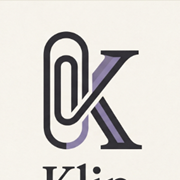
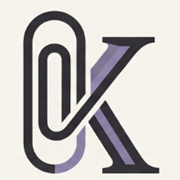
style(mobile): polish mobile UI layout, unified shortener capsule, clean monogram crop, and responsive result card

diff --git a/frontend/src/components/ActiveResultCard.jsx b/frontend/src/components/ActiveResultCard.jsx
@@ -77,30 +77,32 @@ export default function ActiveResultCard({ item }) {
   const displayUrl = item.shortUrl.replace(/^https?:\/\//, '')
 
   return (
-    <section className="max-w-3xl mx-auto px-4 mt-8 mb-16" id="resultCard">
-      <div className="rounded-2xl sm:rounded-3xl bg-white border border-border shadow-[0_10px_35px_-10px_rgba(39,39,42,0.06)] p-5 sm:p-7 flex flex-col md:flex-row items-center justify-between gap-6 transition-transform">
+    <section className="max-w-3xl mx-auto px-4 mt-6 sm:mt-8 mb-12 sm:mb-16" id="resultCard">
+      <div className="rounded-2xl sm:rounded-3xl bg-white border border-border shadow-[0_12px_36px_-10px_rgba(39,39,42,0.08)] p-4 sm:p-6 md:p-7 flex flex-col md:flex-row items-stretch md:items-center justify-between gap-5 sm:gap-6 transition-transform">
         {/* Left Side: Result Details */}
         <div className="flex-1 w-full space-y-4">
           <div className="flex items-center gap-2 flex-wrap">
-            <span className="px-3 py-1 rounded-full bg-accent-tint text-accent text-xs font-mono font-medium tracking-wide">
+            <span className="px-2.5 py-1 rounded-full bg-accent-tint text-accent text-[11px] sm:text-xs font-mono font-medium tracking-wide">
               ACTIVE KLIP
             </span>
-            <span className="text-xs text-muted font-mono">
+            <span className="text-[11px] sm:text-xs text-muted font-mono">
               {item.created_at ? new Date(item.created_at).toLocaleTimeString([], { hour: '2-digit', minute: '2-digit' }) : 'Created just now'}
             </span>
           </div>
 
-          <div>
-            <div className="font-mono text-xs uppercase tracking-wider text-muted mb-1">
+          <div className="space-y-2">
+            <div className="font-mono text-[11px] uppercase tracking-wider text-muted">
               Shortened URL
             </div>
-            <div className="flex items-center gap-2.5 sm:gap-3 flex-wrap">
+
+            {/* Dedicated Link Pill Box: clean responsive flow */}
+            <div className="bg-canvas/70 border border-border/80 rounded-2xl p-3 sm:p-3.5 flex flex-col sm:flex-row sm:items-center justify-between gap-3 transition-colors focus-within:border-accent/40">
               <a
                 id="activeShortLink"
                 href={item.shortUrl}
                 target="_blank"
                 rel="noopener noreferrer"
-                className="font-serif text-2xl sm:text-3xl md:text-4xl text-ink font-normal hover:text-accent transition-colors tracking-tight break-all"
+                className="font-serif text-xl sm:text-2xl md:text-3xl text-ink font-normal hover:text-accent transition-colors tracking-tight break-all select-all leading-snug"
               >
                 {displayUrl}
               </a>
@@ -109,39 +111,39 @@ export default function ActiveResultCard({ item }) {
                 id="copyResultBtn"
                 type="button"
                 onClick={handleCopy}
-                className={`inline-flex items-center gap-1.5 px-3.5 sm:px-4 py-1.5 rounded-full text-xs font-mono font-medium transition-all active:scale-95 shadow-sm border cursor-pointer shrink-0 ${
+                className={`inline-flex items-center justify-center gap-1.5 px-4 py-2 sm:py-2.5 rounded-xl text-xs font-mono font-medium transition-all active:scale-95 shadow-xs border cursor-pointer shrink-0 w-full sm:w-auto ${
                   copied
-                    ? 'bg-success/15 text-success border-success/30'
-                    : 'bg-canvas hover:bg-accent-tint text-ink hover:text-accent border-border'
+                    ? 'bg-success text-white border-success shadow-success/20'
+                    : 'bg-ink text-white hover:bg-[#3F3F46] border-ink'
                 }`}
               >
-                <span className="material-symbols-outlined text-base">
+                <span className="material-symbols-outlined text-sm">
                   {copied ? 'check' : 'content_copy'}
                 </span>
-                <span>{copied ? 'Copied!' : 'Copy'}</span>
+                <span>{copied ? 'Copied!' : 'Copy Link'}</span>
               </button>
             </div>
 
-            <p className="text-xs text-muted font-sans break-all sm:truncate max-w-md pt-2">
+            <p className="text-xs text-muted font-sans break-all sm:truncate max-w-md pt-1">
               Original: <span className="text-ink font-normal">{item.url}</span>
             </p>
           </div>
 
           {/* Honest Micro Badges */}
-          <div className="flex items-center gap-3 pt-1 flex-wrap">
-            <div className="bg-canvas px-3 py-1 rounded-full text-xs font-mono text-muted border border-border/80 flex items-center gap-1.5">
+          <div className="flex items-center gap-2 pt-1 flex-wrap">
+            <div className="bg-canvas px-2.5 py-1 rounded-full text-[11px] sm:text-xs font-mono text-muted border border-border/80 flex items-center gap-1.5">
               <span className="material-symbols-outlined text-sm text-accent">mouse</span>
               <span>{item.clicks || 0} clicks</span>
             </div>
 
-            <div className="bg-canvas px-3 py-1 rounded-full text-xs font-mono text-muted border border-border/80 flex items-center gap-1.5">
+            <div className="bg-canvas px-2.5 py-1 rounded-full text-[11px] sm:text-xs font-mono text-muted border border-border/80 flex items-center gap-1.5">
               <span className="material-symbols-outlined text-sm text-muted">timer</span>
               <span>{timeLeft ? timeLeft : 'Permanent link'}</span>
             </div>
 
             {/* Show SSL Protected ONLY when BASE_URL is https */}
             {isHttps && (
-              <div className="bg-canvas px-3 py-1 rounded-full text-xs font-mono text-muted border border-border/80 flex items-center gap-1.5">
+              <div className="bg-canvas px-2.5 py-1 rounded-full text-[11px] sm:text-xs font-mono text-muted border border-border/80 flex items-center gap-1.5">
                 <span className="material-symbols-outlined text-sm text-success">verified</span>
                 <span>SSL Protected</span>
               </div>
@@ -150,8 +152,8 @@ export default function ActiveResultCard({ item }) {
         </div>
 
         {/* Right Side: Generated Aesthetic QR Code Card */}
-        <div className="bg-canvas rounded-2xl p-4 border border-border flex flex-col items-center gap-3 shrink-0 shadow-sm w-full md:w-auto">
-          <div className="relative w-36 h-36 bg-white rounded-xl p-2.5 border border-border flex items-center justify-center shadow-inner overflow-hidden">
+        <div className="bg-canvas rounded-2xl p-4 border border-border flex flex-col items-center gap-3 shrink-0 shadow-xs w-full md:w-auto">
+          <div className="relative w-32 h-32 sm:w-36 sm:h-36 bg-white rounded-xl p-2.5 border border-border flex items-center justify-center shadow-inner overflow-hidden">
             {qrDataUrl ? (
               <img
                 src={qrDataUrl}
@@ -164,14 +166,14 @@ export default function ActiveResultCard({ item }) {
               </div>
             )}
             <div className="absolute inset-0 pointer-events-none flex items-center justify-center">
-              <div className="w-5 h-5 rounded-full bg-accent/90 border-2 border-white shadow-xs"></div>
+              <div className="w-4 h-4 rounded-full bg-accent/90 border-2 border-white shadow-xs"></div>
             </div>
           </div>
 
-          <div className="flex items-center gap-1.5 w-full">
+          <div className="flex items-center gap-2 w-full">
             <button
               onClick={downloadSvg}
-              className="flex-1 py-1 px-2.5 rounded-full bg-white hover:bg-accent-tint text-ink hover:text-accent font-mono text-[11px] border border-border transition-colors text-center cursor-pointer shadow-xs"
+              className="flex-1 py-1.5 px-3 rounded-full bg-white hover:bg-accent-tint text-ink hover:text-accent font-mono text-[11px] border border-border transition-colors text-center cursor-pointer shadow-xs active:scale-95"
               type="button"
               title="Download vector SVG QR code"
             >
@@ -179,7 +181,7 @@ export default function ActiveResultCard({ item }) {
             </button>
             <button
               onClick={downloadPng}
-              className="flex-1 py-1 px-2.5 rounded-full bg-white hover:bg-accent-tint text-ink hover:text-accent font-mono text-[11px] border border-border transition-colors text-center cursor-pointer shadow-xs"
+              className="flex-1 py-1.5 px-3 rounded-full bg-white hover:bg-accent-tint text-ink hover:text-accent font-mono text-[11px] border border-border transition-colors text-center cursor-pointer shadow-xs active:scale-95"
               type="button"
               title="Download high-resolution PNG QR code"
             >

diff --git a/frontend/src/components/Shortener.jsx b/frontend/src/components/Shortener.jsx
@@ -84,54 +84,53 @@ export default function Shortener({ onUrlCreated }) {
   }
 
   return (
-    <section className="max-w-3xl mx-auto px-4 my-6" id="shorten">
+    <section className="max-w-3xl mx-auto px-4 my-4 sm:my-6" id="shorten">
       <form onSubmit={handleSubmit}>
-        <div className="bg-white rounded-2xl sm:rounded-full border border-border shadow-[0_12px_40px_-10px_rgba(39,39,42,0.1)] p-2 pl-3 sm:pl-6 flex flex-col sm:flex-row items-stretch sm:items-center gap-2 sm:gap-2.5 transition-all focus-within:ring-2 focus-within:ring-accent/30 focus-within:border-accent">
-          <div className="flex items-center gap-2 sm:gap-2.5 flex-1 min-w-0 py-1 sm:py-0">
-            <span className="material-symbols-outlined text-muted text-lg sm:text-xl shrink-0">link</span>
-            <input
-              id="longUrlInput"
-              className="w-full bg-transparent border-0 focus:ring-0 text-ink text-sm sm:text-base placeholder-muted/60 p-0 font-normal truncate outline-none"
-              placeholder="Paste raw URL here... (e.g. https://...)"
-              type="url"
-              value={input}
-              onChange={handleInputChange}
-              required
-            />
-          </div>
+        {/* Unified Continuous Pill Capsule */}
+        <div className="bg-white rounded-full border border-border shadow-[0_10px_35px_-10px_rgba(39,39,42,0.08)] p-1.5 sm:p-2 pl-3.5 sm:pl-6 flex items-center gap-2 transition-all focus-within:ring-2 focus-within:ring-accent/30 focus-within:border-accent">
+          <span className="material-symbols-outlined text-muted text-lg sm:text-xl shrink-0">link</span>
+          <input
+            id="longUrlInput"
+            className="w-full bg-transparent border-0 focus:ring-0 text-ink text-sm sm:text-base placeholder-muted/60 p-0 font-normal truncate outline-none min-w-0"
+            placeholder="Paste raw URL here..."
+            type="url"
+            value={input}
+            onChange={handleInputChange}
+            required
+          />
 
-          <div className="flex items-center justify-end gap-2 shrink-0">
-            {/* Quick paste trigger */}
+          {/* Quick paste trigger */}
+          {!input && (
             <button
               id="pasteBtn"
               type="button"
               onClick={handlePaste}
-              className="inline-flex items-center gap-1 px-2 sm:px-2.5 py-1.5 rounded-full text-xs font-mono text-muted hover:text-ink hover:bg-canvas transition-colors cursor-pointer"
+              className="hidden xs:inline-flex items-center gap-1 px-2.5 py-1.5 rounded-full text-xs font-mono text-muted hover:text-ink hover:bg-canvas transition-colors cursor-pointer shrink-0"
               title="Paste from clipboard"
             >
               <span className="material-symbols-outlined text-sm">content_paste</span>
-              <span className="hidden sm:inline">⌘V</span>
+              <span className="hidden sm:inline">Paste</span>
             </button>
+          )}
 
-            {/* Submit Button */}
-            <button
-              id="klipActionBtn"
-              type="submit"
-              disabled={loading}
-              className="w-full sm:w-auto bg-ink text-white hover:bg-[#3F3F46] rounded-full px-5 sm:px-6 py-2.5 sm:py-3 font-medium text-sm flex items-center justify-center gap-2 transition hover:-translate-y-0.5 active:translate-y-0 shadow-sm shrink-0 cursor-pointer disabled:opacity-70"
-            >
-              {loading ? (
-                <PulseLoader color="white" size={6} aria-label="Loading" />
-              ) : (
-                <>
-                  <span>Klip It</span>
-                  <span className="material-symbols-outlined text-base text-accent-soft">
-                    arrow_forward
-                  </span>
-                </>
-              )}
-            </button>
-          </div>
+          {/* Submit Button */}
+          <button
+            id="klipActionBtn"
+            type="submit"
+            disabled={loading}
+            className="bg-ink text-white hover:bg-[#3F3F46] rounded-full px-4 sm:px-6 py-2.5 sm:py-3 font-medium text-xs sm:text-sm flex items-center justify-center gap-1.5 sm:gap-2 transition hover:-translate-y-0.5 active:translate-y-0 shadow-sm shrink-0 cursor-pointer disabled:opacity-70 whitespace-nowrap"
+          >
+            {loading ? (
+              <PulseLoader color="white" size={5} aria-label="Loading" />
+            ) : (
+              <>
+                <span>Klip It</span>
+                <span className="material-symbols-outlined text-sm sm:text-base text-accent-soft">
+                  arrow_forward
+                </span>
+              </>
+            )}
+          </button>
         </div>
 
         {/* Error message indicator */}
@@ -144,30 +143,24 @@ export default function Shortener({ onUrlCreated }) {
         )}
 
         {/* Domain & Custom Slug Sub-bar */}
-        <div className="mt-3 flex flex-col sm:flex-row sm:items-center justify-between gap-2.5 px-1 sm:px-3">
-          <div className="flex items-center gap-2 flex-wrap">
-            <span className="font-mono text-xs uppercase tracking-wider text-muted">Host:</span>
-            {/* Read-only real host display */}
-            <div className="inline-flex items-center px-2.5 sm:px-3 py-1 rounded-full bg-white border border-border text-xs font-mono text-ink shadow-xs">
-              <span className="text-accent font-medium">{hostPrefix}</span>
-            </div>
-
-            <div className="inline-flex items-center bg-white border border-border rounded-full px-2.5 sm:px-3 py-1 gap-1 text-xs font-mono max-w-full">
-              <span className="text-muted shrink-0">custom slug:</span>
-              <input
-                id="aliasInput"
-                type="text"
-                placeholder="optional"
-                value={slug}
-                onChange={(e) => setSlug(e.target.value)}
-                className="bg-transparent border-0 p-0 text-ink text-xs font-mono focus:ring-0 w-20 sm:w-24 outline-none"
-              />
-              {slug.trim() && <span className="w-1.5 h-1.5 rounded-full bg-accent ml-0.5 shrink-0"></span>}
-            </div>
+        <div className="mt-2.5 flex flex-col sm:flex-row items-stretch sm:items-center justify-between gap-2 px-1 sm:px-2">
+          {/* Unified Link Prefix + Slug Input */}
+          <div className="flex items-center gap-1.5 bg-white border border-border/80 rounded-full px-3 py-1.5 shadow-2xs text-xs font-mono">
+            <span className="text-muted text-[11px] font-sans font-medium shrink-0">Link:</span>
+            <span className="text-accent font-medium shrink-0 truncate max-w-[130px] sm:max-w-none">{hostPrefix}</span>
+            <input
+              id="aliasInput"
+              type="text"
+              placeholder="custom-slug"
+              value={slug}
+              onChange={(e) => setSlug(e.target.value)}
+              className="bg-transparent border-0 p-0 text-ink text-xs font-mono focus:ring-0 flex-1 sm:w-28 outline-none placeholder:text-muted/40"
+            />
+            {slug.trim() && <span className="w-1.5 h-1.5 rounded-full bg-accent shrink-0"></span>}
           </div>
 
-          {/* Honest Toggles */}
-          <div className="flex items-center gap-3 text-xs text-muted font-mono pt-0.5 sm:pt-0">
+          {/* Option Toggles */}
+          <div className="flex items-center justify-between sm:justify-end gap-3 text-muted text-[11px] font-mono px-2 sm:px-0">
             <label className="flex items-center gap-1.5 cursor-pointer hover:text-ink select-none" title="Link expires automatically after 30 days">
               <input
                 type="checkbox"

diff --git a/frontend/src/components/Header.jsx b/frontend/src/components/Header.jsx
@@ -170,7 +170,7 @@ export default function Header() {
             <img
               src={logoIcon}
               alt="Klip"
-              className="w-full h-full object-cover"
+              className="w-full h-full object-contain p-0.5"
             />
           </div>
           <span className="font-serif text-xl sm:text-2xl tracking-tight text-ink font-semibold">
@@ -220,25 +220,25 @@ export default function Header() {
               scrollToShorten()
               setMobileMenuOpen(false)
             }}
-            className="inline-flex items-center gap-1 sm:gap-1.5 px-3 sm:px-4 py-1.5 rounded-full bg-accent-tint text-accent hover:bg-accent hover:text-white transition-all text-xs font-mono font-medium border border-accent/20 cursor-pointer"
+            className="hidden sm:inline-flex items-center gap-1.5 px-4 py-1.5 rounded-full bg-accent-tint text-accent hover:bg-accent hover:text-white transition-all text-xs font-mono font-medium border border-accent/20 cursor-pointer"
             type="button"
           >
             <span>New Link</span>
             <span className="text-xs">+</span>
           </button>
 
-          <div className="hidden xs:flex w-7 h-7 sm:w-8 sm:h-8 rounded-full overflow-hidden border border-border ring-2 ring-white bg-accent-tint items-center justify-center shrink-0">
-            <span className="font-serif text-xs sm:text-sm font-semibold text-accent">S</span>
+          <div className="hidden md:flex w-8 h-8 rounded-full overflow-hidden border border-border ring-2 ring-white bg-accent-tint items-center justify-center shrink-0">
+            <span className="font-serif text-sm font-semibold text-accent">S</span>
           </div>
 
           {/* Mobile menu toggle button */}
           <button
             type="button"
             onClick={() => setMobileMenuOpen(!mobileMenuOpen)}
-            className="md:hidden w-8 h-8 rounded-full bg-canvas border border-border flex items-center justify-center text-ink hover:bg-accent-tint hover:text-accent transition-colors cursor-pointer shrink-0"
+            className="md:hidden w-9 h-9 rounded-full bg-canvas/80 border border-border flex items-center justify-center text-ink hover:bg-accent-tint hover:text-accent transition-colors cursor-pointer shrink-0"
             aria-label="Toggle navigation menu"
           >
-            <span className="material-symbols-outlined text-base">
+            <span className="material-symbols-outlined text-lg">
               {mobileMenuOpen ? 'close' : 'menu'}
             </span>
           </button>
@@ -247,7 +247,7 @@ export default function Header() {
 
       {/* Mobile dropdown menu */}
       {mobileMenuOpen && (
-        <div className="md:hidden max-w-5xl mx-auto mt-2 p-2 bg-white/95 backdrop-blur-md rounded-2xl border border-border shadow-[0_12px_30px_rgba(39,39,42,0.1)] flex flex-col gap-1 animate-in fade-in slide-in-from-top-2 duration-150">
+        <div className="md:hidden max-w-5xl mx-auto mt-2 p-2.5 bg-white/95 backdrop-blur-md rounded-2xl border border-border shadow-[0_14px_35px_rgba(39,39,42,0.12)] flex flex-col gap-1.5 animate-in fade-in slide-in-from-top-2 duration-150">
           {navItems.map((item) => {
             const isActive = activeNav === item.id
             return (
@@ -271,6 +271,19 @@ export default function Header() {
               </button>
             )
           })}
+          <div className="pt-2 border-t border-border/60">
+            <button
+              type="button"
+              onClick={() => {
+                scrollToShorten()
+                setMobileMenuOpen(false)
+              }}
+              className="w-full text-center px-4 py-2.5 rounded-xl bg-ink text-white font-medium text-xs font-mono flex items-center justify-center gap-1.5 cursor-pointer shadow-xs"
+            >
+              <span>Create New Link</span>
+              <span className="text-accent-soft">+</span>
+            </button>
+          </div>
         </div>
       )}
     </header>

diff --git a/frontend/src/components/Hero.jsx b/frontend/src/components/Hero.jsx
@@ -2,7 +2,7 @@ import React from 'react'
 
 export default function Hero() {
   return (
-    <section className="relative pt-6 sm:pt-12 pb-4 sm:pb-6 px-4 max-w-4xl mx-auto text-center">
+    <section className="relative pt-4 sm:pt-10 pb-2 sm:pb-6 px-4 max-w-4xl mx-auto text-center">
       {/* Decorative Sparkles */}
       <div
         aria-hidden="true"
@@ -22,22 +22,13 @@ export default function Hero() {
         </svg>
       </div>
 
-      <div
-        aria-hidden="true"
-        className="absolute bottom-2 left-1/4 text-accent-soft/80 animate-twinkle-2 hidden md:block pointer-events-none"
-      >
-        <svg className="w-4 h-4" fill="currentColor" viewBox="0 0 24 24">
-          <path d="M12 0L14 10L24 12L14 14L12 24L10 14L0 12L10 10L12 0Z"></path>
-        </svg>
-      </div>
-
       {/* Huge Serif Signature Headline */}
-      <h1 className="font-serif text-[clamp(2.15rem,6.5vw,5.25rem)] leading-[1.04] sm:leading-[0.96] tracking-[-0.025em] text-ink font-normal mb-4 sm:mb-5 max-w-3xl mx-auto">
+      <h1 className="font-serif text-[clamp(2rem,6.8vw,5.25rem)] leading-[1.02] sm:leading-[0.96] tracking-tight text-ink font-normal mb-3 sm:mb-5 max-w-3xl mx-auto">
         Make long links <span className="italic text-accent">tiny</span> and shareable
         <span className="text-accent">.</span>
       </h1>
 
-      <p className="font-sans text-sm sm:text-base md:text-lg text-muted max-w-xl mx-auto leading-relaxed px-2">
+      <p className="font-sans text-xs sm:text-base md:text-lg text-muted max-w-md sm:max-w-xl mx-auto leading-relaxed px-1">
         The neo-minimalist link shortener crafted for independent creators, studios, and editorial curators. Clean, edge-routed, zero noise.
       </p>
     </section>

diff --git a/frontend/tailwind.config.js b/frontend/tailwind.config.js
@@ -24,6 +24,9 @@ module.exports = {
           border: "rgba(39, 39, 42, 0.08)"
         }
       },
+      screens: {
+        xs: '475px',
+      },
       fontFamily: {
         serif: ['"Instrument Serif"', '"Editorial New"', "serif"],
         sans: ['"DM Sans"', "sans-serif"],
